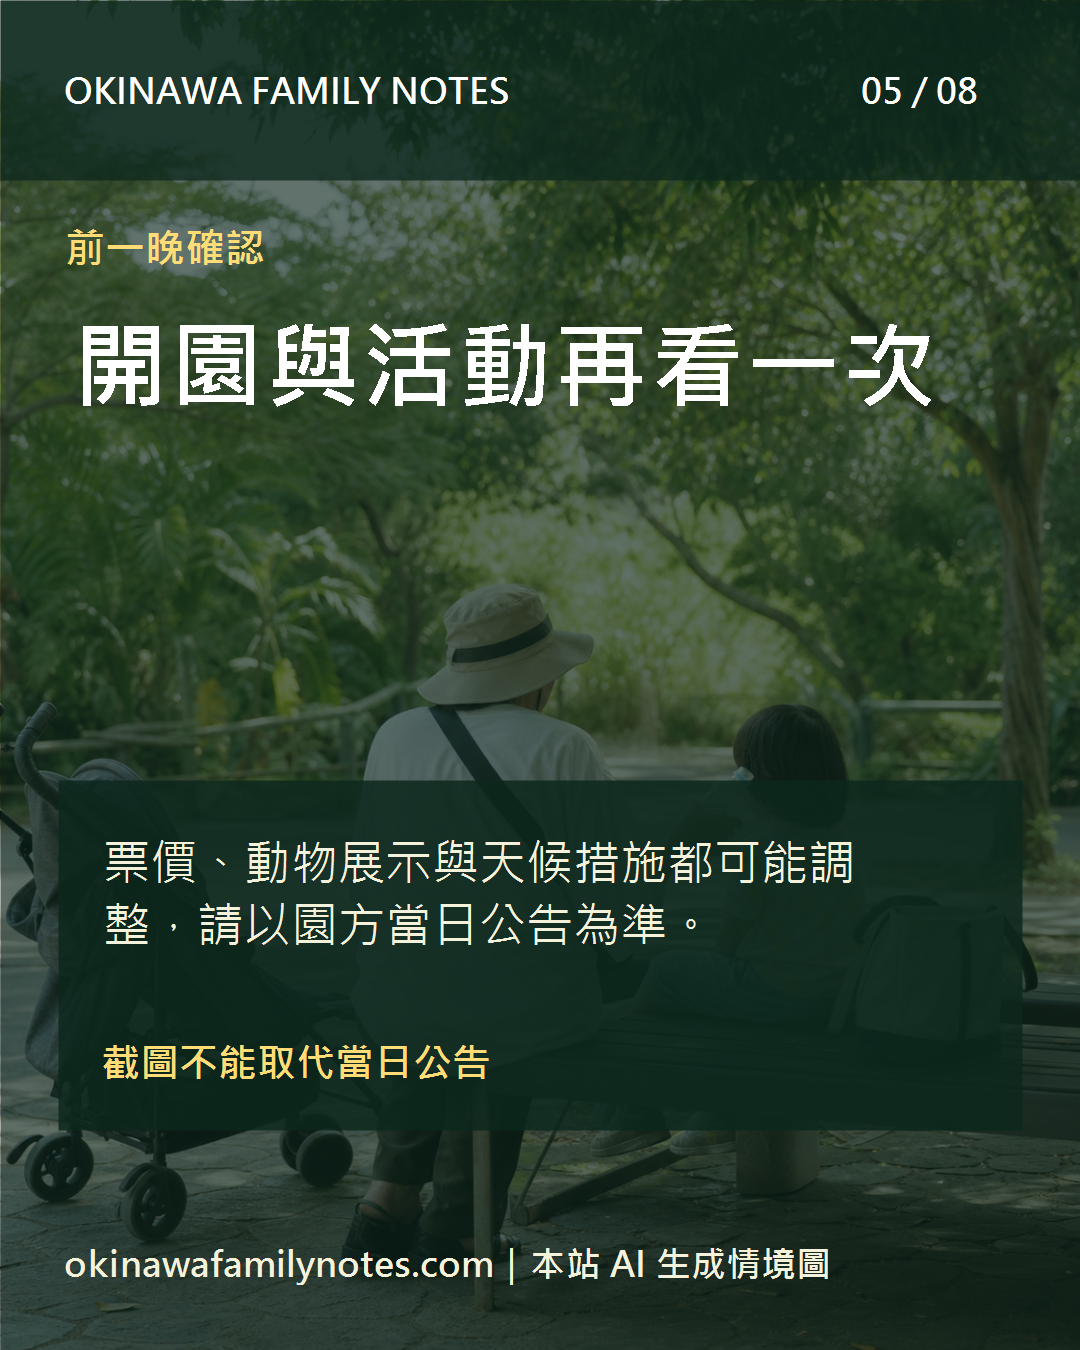
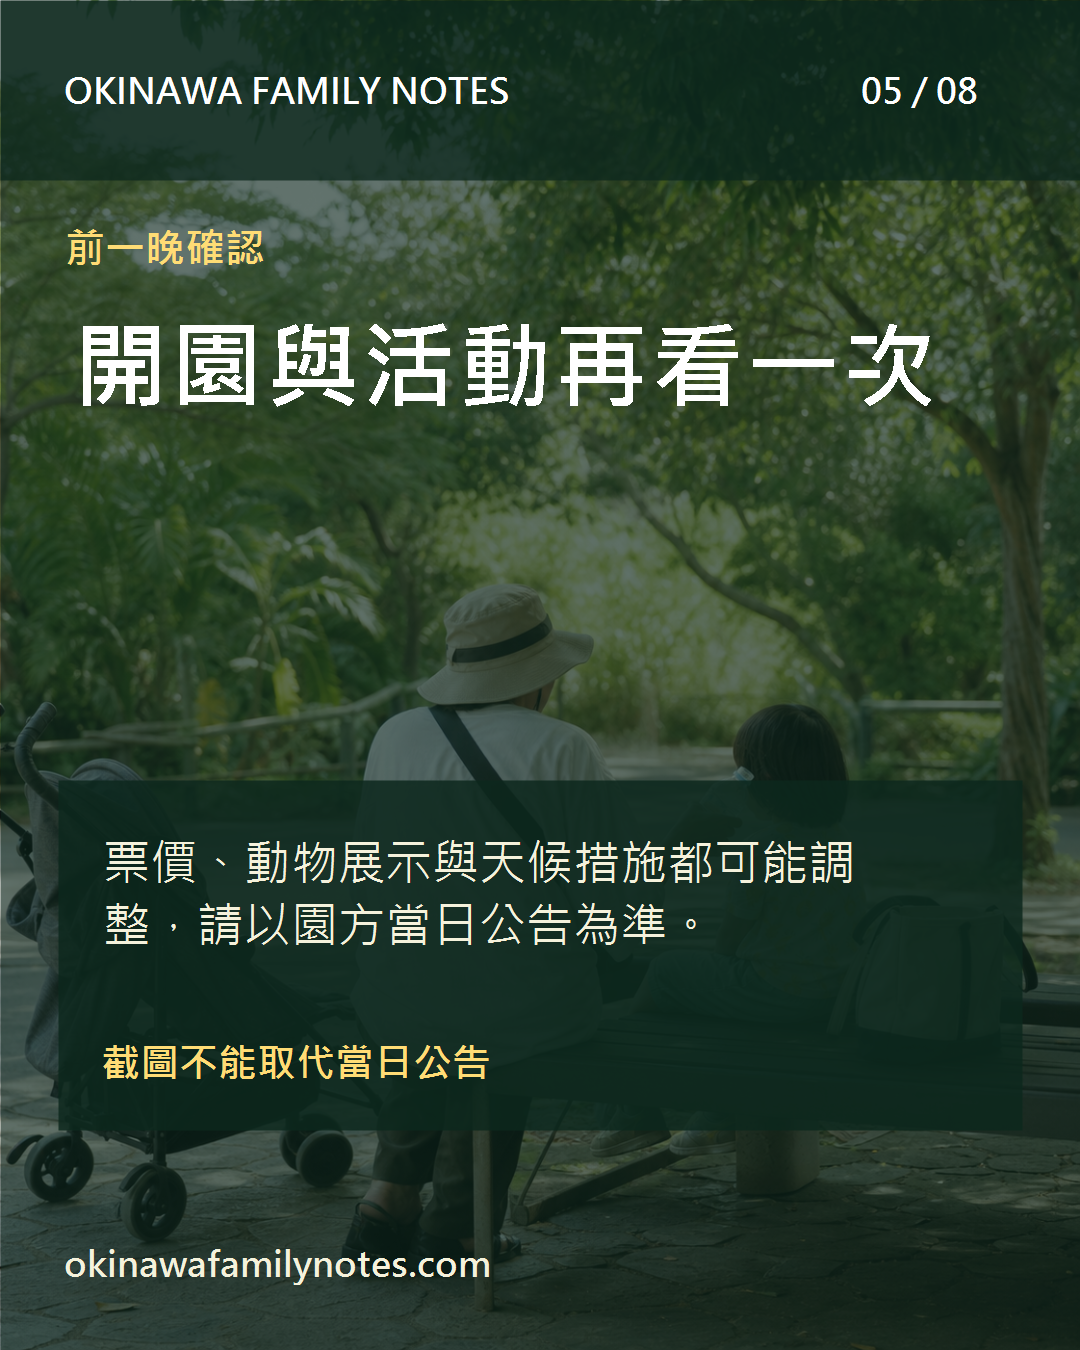
Align AI image captions with site style

Changed region(s): [[0.4889, 0.9022, 0.7639, 0.9644], [0.0917, 0.9022, 0.4583, 0.9644]]

diff --git a/AI_HANDOFF.md b/AI_HANDOFF.md
@@ -18,12 +18,13 @@ This is the current operational handoff between Codex and Claude Code. Keep it s
 
 ### Daily-content visual correction, 2026-07-26 (Codex)
 
-- Replaced the two new articles' self-made SVG covers with 16:9 GPT-generated, photorealistic family-travel scenes and visible article-level AI image disclosures. The images are deliberately generic situations, not claims of a named station or venue.
+- Replaced the two new articles' self-made SVG covers with 16:9 GPT-generated, photorealistic family-travel scenes and natural cover captions. The images are deliberately generic situations, not claims of a named station or venue.
 - Rebuilt both unpublished 8-slide carousels to use three distinct GPT-generated, photorealistic family-travel scenes each; all slides now have full-bleed photo backgrounds, and the closing slide remains photographic. The 390px stacked previews were manually reviewed.
-- Added `prompts.md` records and an explicit AI-situation disclosure to both Facebook drafts. No social post was uploaded or published.
+- Added `prompts.md` records for both Facebook drafts. Public-facing captions and carousel footers follow the site's existing style and do not add AI-image wording. No social post was uploaded or published.
 - Added a mandatory social-image quality gate: at least three distinct GPT photo scenes per eight-slide carousel, with photographic cover and CTA slides; SVG information graphics are only for facts that photos cannot honestly convey.
 - Commit: `e8e361a Replace guide graphics with GPT travel scenes`.
-- `content:audit:strict`: passed, 38 articles and 0 critical issues; 34 older style reminders remain. `next build`: passed, 58 static pages. Production verification after deployment: both new cover files return `200`, both articles have self-referencing canonicals, and `sitemap.xml` contains both slugs. A 390px browser check confirmed the new Yui Rail cover and AI-image caption render correctly.
+- `content:audit:strict`: passed, 38 articles and 0 critical issues; 34 older style reminders remain. `next build`: passed, 58 static pages. Production verification after deployment: both new cover files return `200`, both articles have self-referencing canonicals, and `sitemap.xml` contains both slugs. A 390px browser check confirmed the new Yui Rail cover renders correctly.
+- Search Console was checked while signed in: both URLs were discovered through the sitemap but not indexed, and each was submitted once. Search Console confirmed both are in the priority crawl queue; do not resubmit unless the user explicitly requests it.
 
 ### Daily articles and unpublished carousels, 2026-07-26 (Codex)
 

diff --git a/docs/social/ai-image-style-guide.md b/docs/social/ai-image-style-guide.md
@@ -93,7 +93,7 @@ identifiable child face, direct eye contact of children, crowded tourists, clutt
 - 8 張 IG／Facebook 輪播至少要有 **3 個不同的 GPT 寫實情境場景**；封面與 CTA 頁必須使用滿版情境照片，不能用純色、SVG 或資訊卡替代。
 - SVG／資訊圖只用在費率、規則、時間軸、地圖或比較表等「照片無法誠實表達」的資訊；不得成為整組輪播的大多數視覺。
 - 每張實際採用的圖都要人工檢視人物、手部、文字、商標與場景可信度；不合格就重生，不以「先做完」取代審核。
-- 完成前必須在 `work/social/{slug}/prompts.md` 記錄實際 prompt、檔名與 AI 情境示意揭露文字，並實際查看 390px 手機預覽。
+- 完成前必須在 `work/social/{slug}/prompts.md` 記錄實際 prompt、檔名，並實際查看 390px 手機預覽；公開文案延續既有網站風格，不另加 AI 圖片標示。
 
 ### 通用模型的兩個已知弱點（2026-07-21 實測）
 

diff --git a/content/blog/okinawa-zoo-museum-family-guide.md b/content/blog/okinawa-zoo-museum-family-guide.md
@@ -6,7 +6,7 @@ category: "親子景點"
 tags: ["沖繩兒童王國", "沖繩親子景點", "沖繩雨天備案", "沖繩中部行程", "沖繩動物園"]
 coverImage: "/images/articles/okinawa-zoo-museum-family-guide/okinawa-zoo-museum-family-guide-cover-ai-v2.png"
 coverAlt: "本站自製資訊圖：以動物園、室內互動館與親子休息節奏呈現沖繩兒童王國"
-coverCaption: "本站以 GPT 生成的親子園區情境圖；非實拍、非特定園區現場畫面。"
+coverCaption: "把動物園與室內館排在同一天，親子行程就多一個天氣備案。"
 ---
 
 沖繩兒童王國（Okinawa Zoo & Museum）適不適合帶小孩去？**如果你想在沖繩中部安排一個能看動物、能進室內、又能隨孩子狀態縮短或延長的景點，它很值得列入候選。**

diff --git a/content/blog/okinawa-yui-rail-family-guide.md b/content/blog/okinawa-yui-rail-family-guide.md
@@ -6,7 +6,7 @@ category: "租車交通"
 tags: ["沖繩單軌電車", "那霸親子自由行", "沖繩親子交通", "沖繩推車", "那霸行程"]
 coverImage: "/images/articles/okinawa-yui-rail-family-guide/yui-rail-family-guide-cover-ai-v2.png"
 coverAlt: "本站自製資訊圖：以單軌列車、推車與三個那霸行程節點呈現親子搭乘規劃"
-coverCaption: "本站以 GPT 生成的親子單軌情境圖；非實拍、非特定車站現場畫面。"
+coverCaption: "帶孩子搭單軌，先把推車與電梯動線想好，移動會更從容。"
 ---
 
 帶小孩在那霸搭沖繩單軌電車，先別一落地就買一日券。先問自己三件事：**今天會不會開車、要去幾個站、以及孩子需要推車還是午睡。**

diff --git a/work/social/okinawa-zoo-museum-family-guide/copy-facebook.md b/work/social/okinawa-zoo-museum-family-guide/copy-facebook.md
@@ -2,6 +2,5 @@
 
 下雨或很熱的日子，這種能隨時調整的景點，比硬撐一整天更適合帶孩子。出發前仍要確認當日開園、活動與天候公告；完整動線、票價與交通取捨整理在網站。（發布時將文章連結置於第一則留言）
 
-圖片為本站以 GPT 製作的情境示意，非現場實拍。
 
 #沖繩親子景點 #沖繩兒童王國 #沖繩雨天備案

diff --git a/work/social/okinawa-yui-rail-family-guide/copy-facebook.md b/work/social/okinawa-yui-rail-family-guide/copy-facebook.md
@@ -4,6 +4,5 @@
 
 本文資料依沖繩都市單軌電車官方中文頁面整理；票價、時刻與營運狀況出發當天請再確認。完整親子動線我整理在網站。（發布時將文章連結置於第一則留言）
 
-圖片為本站以 GPT 製作的情境示意，非現場實拍。
 
 #沖繩親子自由行 #沖繩單軌電車 #那霸親子旅行

diff --git a/work/social/okinawa-yui-rail-family-guide/prompts.md b/work/social/okinawa-yui-rail-family-guide/prompts.md
@@ -11,4 +11,4 @@
 
 人工檢查：人物無可辨識兒童正臉，沒有可讀站名、商標、車牌或冒充特定車站的元素；已查看手機預覽。
 
-貼文揭露：`圖片為本站以 GPT 製作的情境示意，非現場實拍。`
+公開文案：不另加 AI 圖片標示；延續既有網站風格。

diff --git a/work/social/okinawa-zoo-museum-family-guide/prompts.md b/work/social/okinawa-zoo-museum-family-guide/prompts.md
@@ -11,4 +11,4 @@
 
 人工檢查：人物無可辨識兒童正臉，沒有可讀園名、商標、車牌或冒充特定園區的元素；已查看手機預覽。
 
-貼文揭露：`圖片為本站以 GPT 製作的情境示意，非現場實拍。`
+公開文案：不另加 AI 圖片標示；延續既有網站風格。
